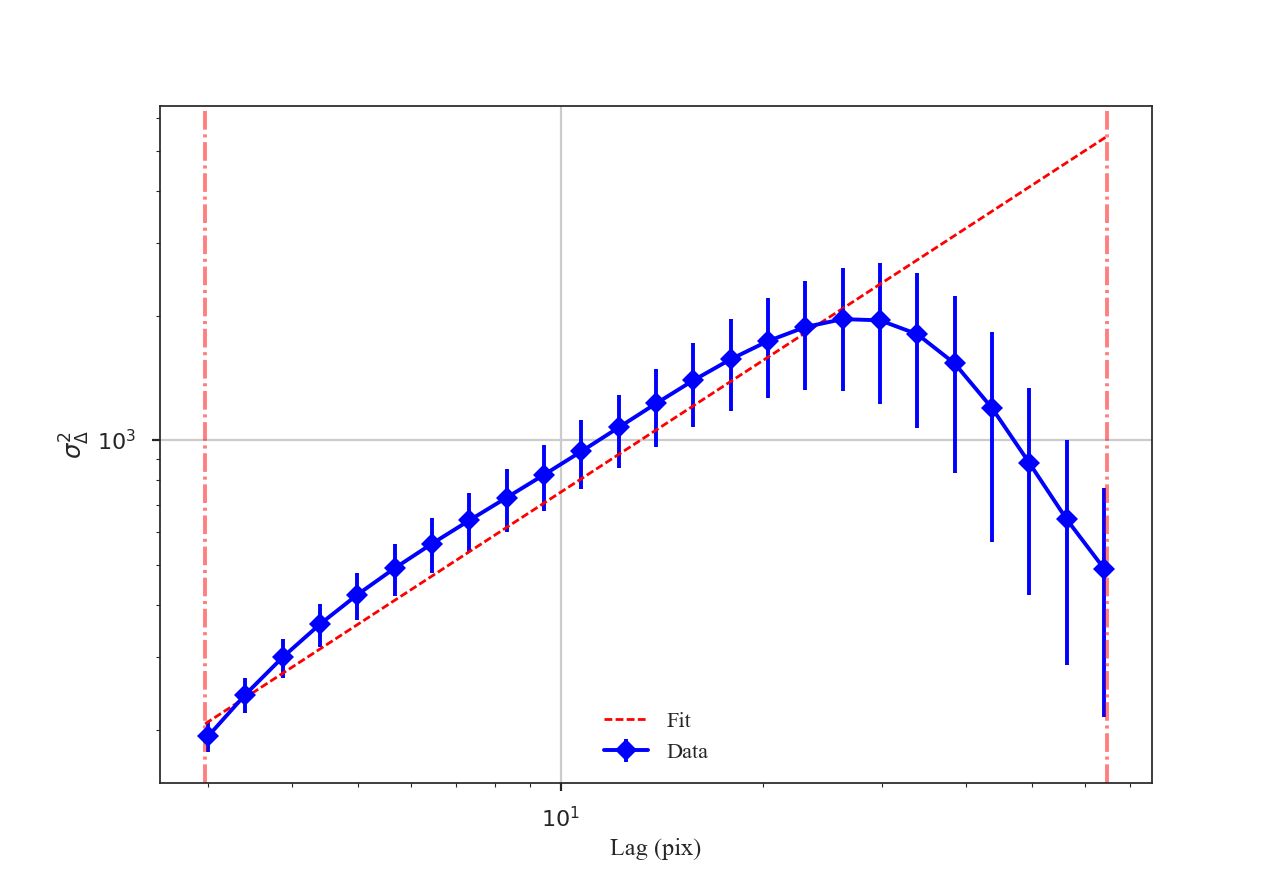
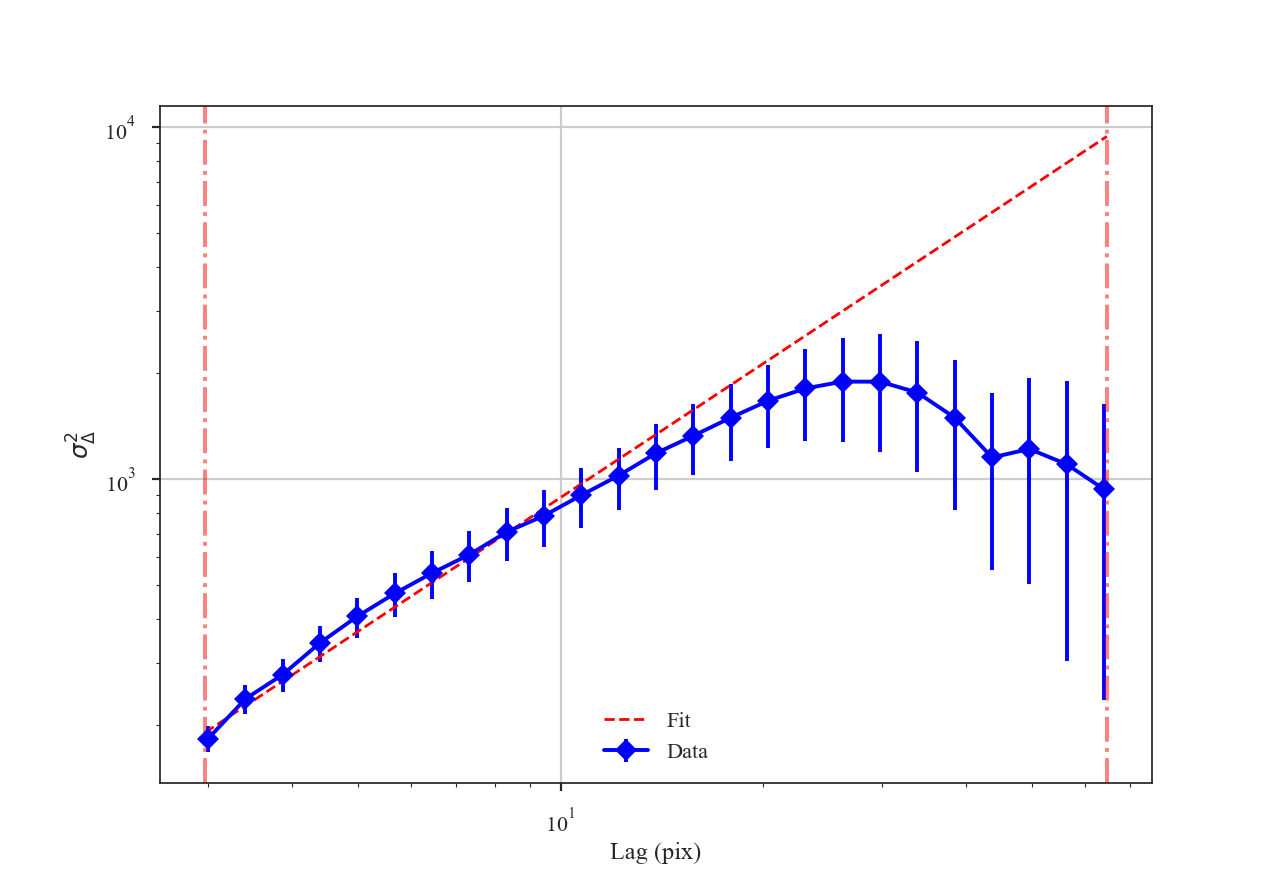
Update delta-variance tutorial values with convolution changes

diff --git a/docs/tutorials/statistics/code_for_tutorials.py b/docs/tutorials/statistics/code_for_tutorials.py
@@ -23,7 +23,7 @@ fig_path = 'images'
 
 # Choose which methods to run
 run_bispec = False
-run_delvar = False
+run_delvar = True
 run_dendro = False
 run_genus = False
 run_mvc = False

diff --git a/docs/tutorials/statistics/delta_variance_example.rst b/docs/tutorials/statistics/delta_variance_example.rst
@@ -57,25 +57,25 @@ The entire process is performed through `~turbustat.statistics.DeltaVariance.run
     >>> delvar.run(verbose=True, xunit=u.pix)  # doctest: +SKIP
                                 WLS Regression Results
     ==============================================================================
-    Dep. Variable:                      y   R-squared:                       0.829
-    Model:                            WLS   Adj. R-squared:                  0.822
-    Method:                 Least Squares   F-statistic:                     111.5
-    Date:                Tue, 04 Jul 2017   Prob (F-statistic):           2.71e-10
-    Time:                        12:49:20   Log-Likelihood:                 1.6322
-    No. Observations:                  25   AIC:                            0.7355
-    Df Residuals:                      23   BIC:                             3.173
+    Dep. Variable:                      y   R-squared:                       0.946
+    Model:                            WLS   Adj. R-squared:                  0.943
+    Method:                 Least Squares   F-statistic:                     400.2
+    Date:                Wed, 18 Oct 2017   Prob (F-statistic):           4.80e-16
+    Time:                        18:38:51   Log-Likelihood:                 13.625
+    No. Observations:                  25   AIC:                            -23.25
+    Df Residuals:                      23   BIC:                            -20.81
     Df Model:                           1
     Covariance Type:            nonrobust
     ==============================================================================
                      coef    std err          t      P>|t|      [0.025      0.975]
     ------------------------------------------------------------------------------
-    const          1.8136      0.058     31.295      0.000       1.694       1.933
-    x1             1.0609      0.100     10.559      0.000       0.853       1.269
+    const          1.6826      0.036     46.701      0.000       1.608       1.757
+    x1             1.2654      0.063     20.006      0.000       1.135       1.396
     ==============================================================================
-    Omnibus:                       13.274   Durbin-Watson:                   0.286
-    Prob(Omnibus):                  0.001   Jarque-Bera (JB):               12.252
-    Skew:                          -1.445   Prob(JB):                      0.00218
-    Kurtosis:                       4.847   Cond. No.                         9.46
+    Omnibus:                        0.195   Durbin-Watson:                   0.506
+    Prob(Omnibus):                  0.907   Jarque-Bera (JB):                0.403
+    Skew:                          -0.047   Prob(JB):                        0.818
+    Kurtosis:                       2.385   Cond. No.                         10.6
     ==============================================================================
 
 .. image:: images/delvar_design4.png
@@ -85,25 +85,25 @@ The entire process is performed through `~turbustat.statistics.DeltaVariance.run
     >>> delvar.run(verbose=True, xunit=u.pix, xlow=4 * u.pix, xhigh=30 * u.pix)  # doctest: +SKIP
                                 WLS Regression Results
     ==============================================================================
-    Dep. Variable:                      y   R-squared:                       0.995
-    Model:                            WLS   Adj. R-squared:                  0.995
-    Method:                 Least Squares   F-statistic:                     2726.
-    Date:                Tue, 04 Jul 2017   Prob (F-statistic):           1.91e-17
-    Time:                        12:47:27   Log-Likelihood:                 40.177
-    No. Observations:                  16   AIC:                            -76.35
-    Df Residuals:                      14   BIC:                            -74.81
+    Dep. Variable:                      y   R-squared:                       0.994
+    Model:                            WLS   Adj. R-squared:                  0.993
+    Method:                 Least Squares   F-statistic:                     2167.
+    Date:                Wed, 18 Oct 2017   Prob (F-statistic):           9.44e-17
+    Time:                        18:38:52   Log-Likelihood:                 38.238
+    No. Observations:                  16   AIC:                            -72.48
+    Df Residuals:                      14   BIC:                            -70.93
     Df Model:                           1
     Covariance Type:            nonrobust
     ==============================================================================
                      coef    std err          t      P>|t|      [0.025      0.975]
     ------------------------------------------------------------------------------
-    const          1.8838      0.015    121.613      0.000       1.851       1.917
-    x1             1.0584      0.020     52.211      0.000       1.015       1.102
+    const          1.8620      0.017    106.799      0.000       1.825       1.899
+    x1             1.0630      0.023     46.549      0.000       1.014       1.112
     ==============================================================================
-    Omnibus:                        0.637   Durbin-Watson:                   0.560
-    Prob(Omnibus):                  0.727   Jarque-Bera (JB):                0.609
-    Skew:                          -0.386   Prob(JB):                        0.738
-    Kurtosis:                       2.438   Cond. No.                         11.5
+    Omnibus:                        0.142   Durbin-Watson:                   0.746
+    Prob(Omnibus):                  0.931   Jarque-Bera (JB):                0.271
+    Skew:                          -0.182   Prob(JB):                        0.873
+    Kurtosis:                       2.475   Cond. No.                         11.4
     ==============================================================================
 
 .. image:: images/delvar_design4_wlimits.png
@@ -113,25 +113,25 @@ The entire process is performed through `~turbustat.statistics.DeltaVariance.run
     >>> delvar.run(verbose=True, xunit=u.pc, xlow=4 * u.pix, xhigh=30 * u.pix)  # doctest: +SKIP
                                 WLS Regression Results
     ==============================================================================
-    Dep. Variable:                      y   R-squared:                       0.995
-    Model:                            WLS   Adj. R-squared:                  0.995
-    Method:                 Least Squares   F-statistic:                     2726.
-    Date:                Tue, 04 Jul 2017   Prob (F-statistic):           1.91e-17
-    Time:                        12:47:27   Log-Likelihood:                 40.177
-    No. Observations:                  16   AIC:                            -76.35
-    Df Residuals:                      14   BIC:                            -74.81
+    Dep. Variable:                      y   R-squared:                       0.994
+    Model:                            WLS   Adj. R-squared:                  0.993
+    Method:                 Least Squares   F-statistic:                     2167.
+    Date:                Wed, 18 Oct 2017   Prob (F-statistic):           9.44e-17
+    Time:                        18:38:52   Log-Likelihood:                 38.238
+    No. Observations:                  16   AIC:                            -72.48
+    Df Residuals:                      14   BIC:                            -70.93
     Df Model:                           1
     Covariance Type:            nonrobust
     ==============================================================================
                      coef    std err          t      P>|t|      [0.025      0.975]
     ------------------------------------------------------------------------------
-    const          1.8838      0.015    121.613      0.000       1.851       1.917
-    x1             1.0584      0.020     52.211      0.000       1.015       1.102
+    const          1.8620      0.017    106.799      0.000       1.825       1.899
+    x1             1.0630      0.023     46.549      0.000       1.014       1.112
     ==============================================================================
-    Omnibus:                        0.637   Durbin-Watson:                   0.560
-    Prob(Omnibus):                  0.727   Jarque-Bera (JB):                0.609
-    Skew:                          -0.386   Prob(JB):                        0.738
-    Kurtosis:                       2.438   Cond. No.                         11.5
+    Omnibus:                        0.142   Durbin-Watson:                   0.746
+    Prob(Omnibus):                  0.931   Jarque-Bera (JB):                0.271
+    Skew:                          -0.182   Prob(JB):                        0.873
+    Kurtosis:                       2.475   Cond. No.                         11.4
     ==============================================================================
 
 .. image:: images/delvar_design4_physunits.png
